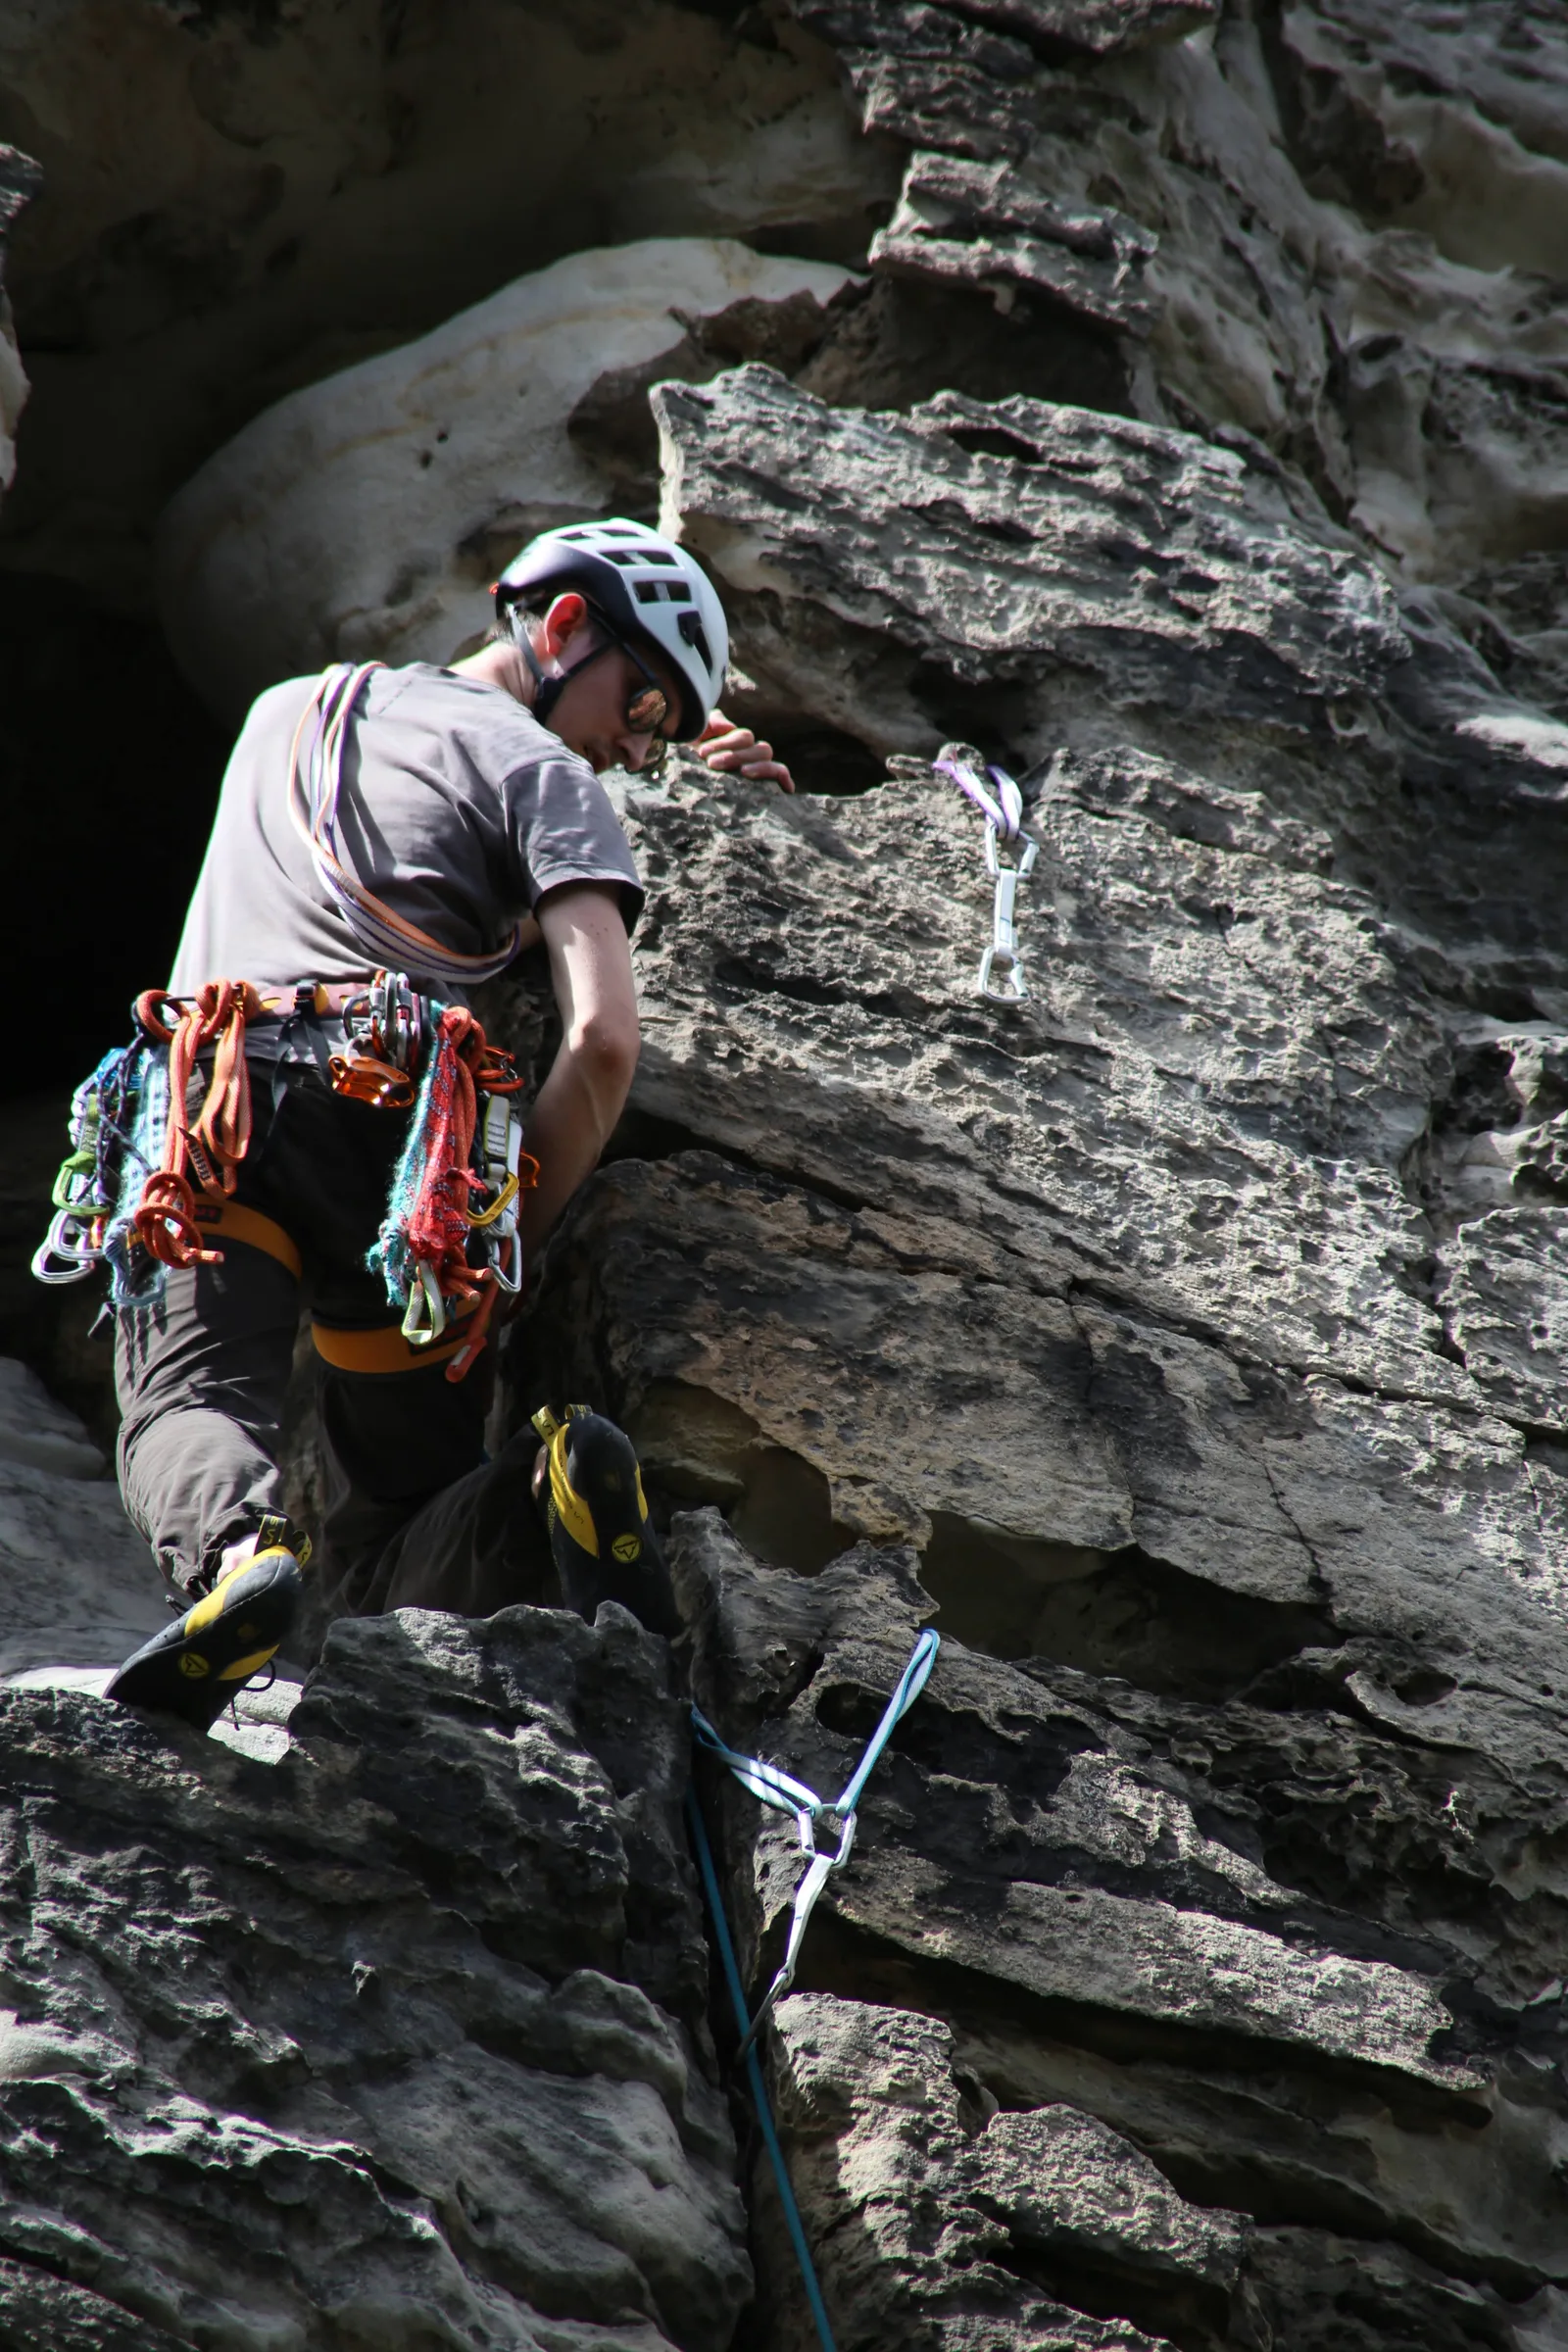
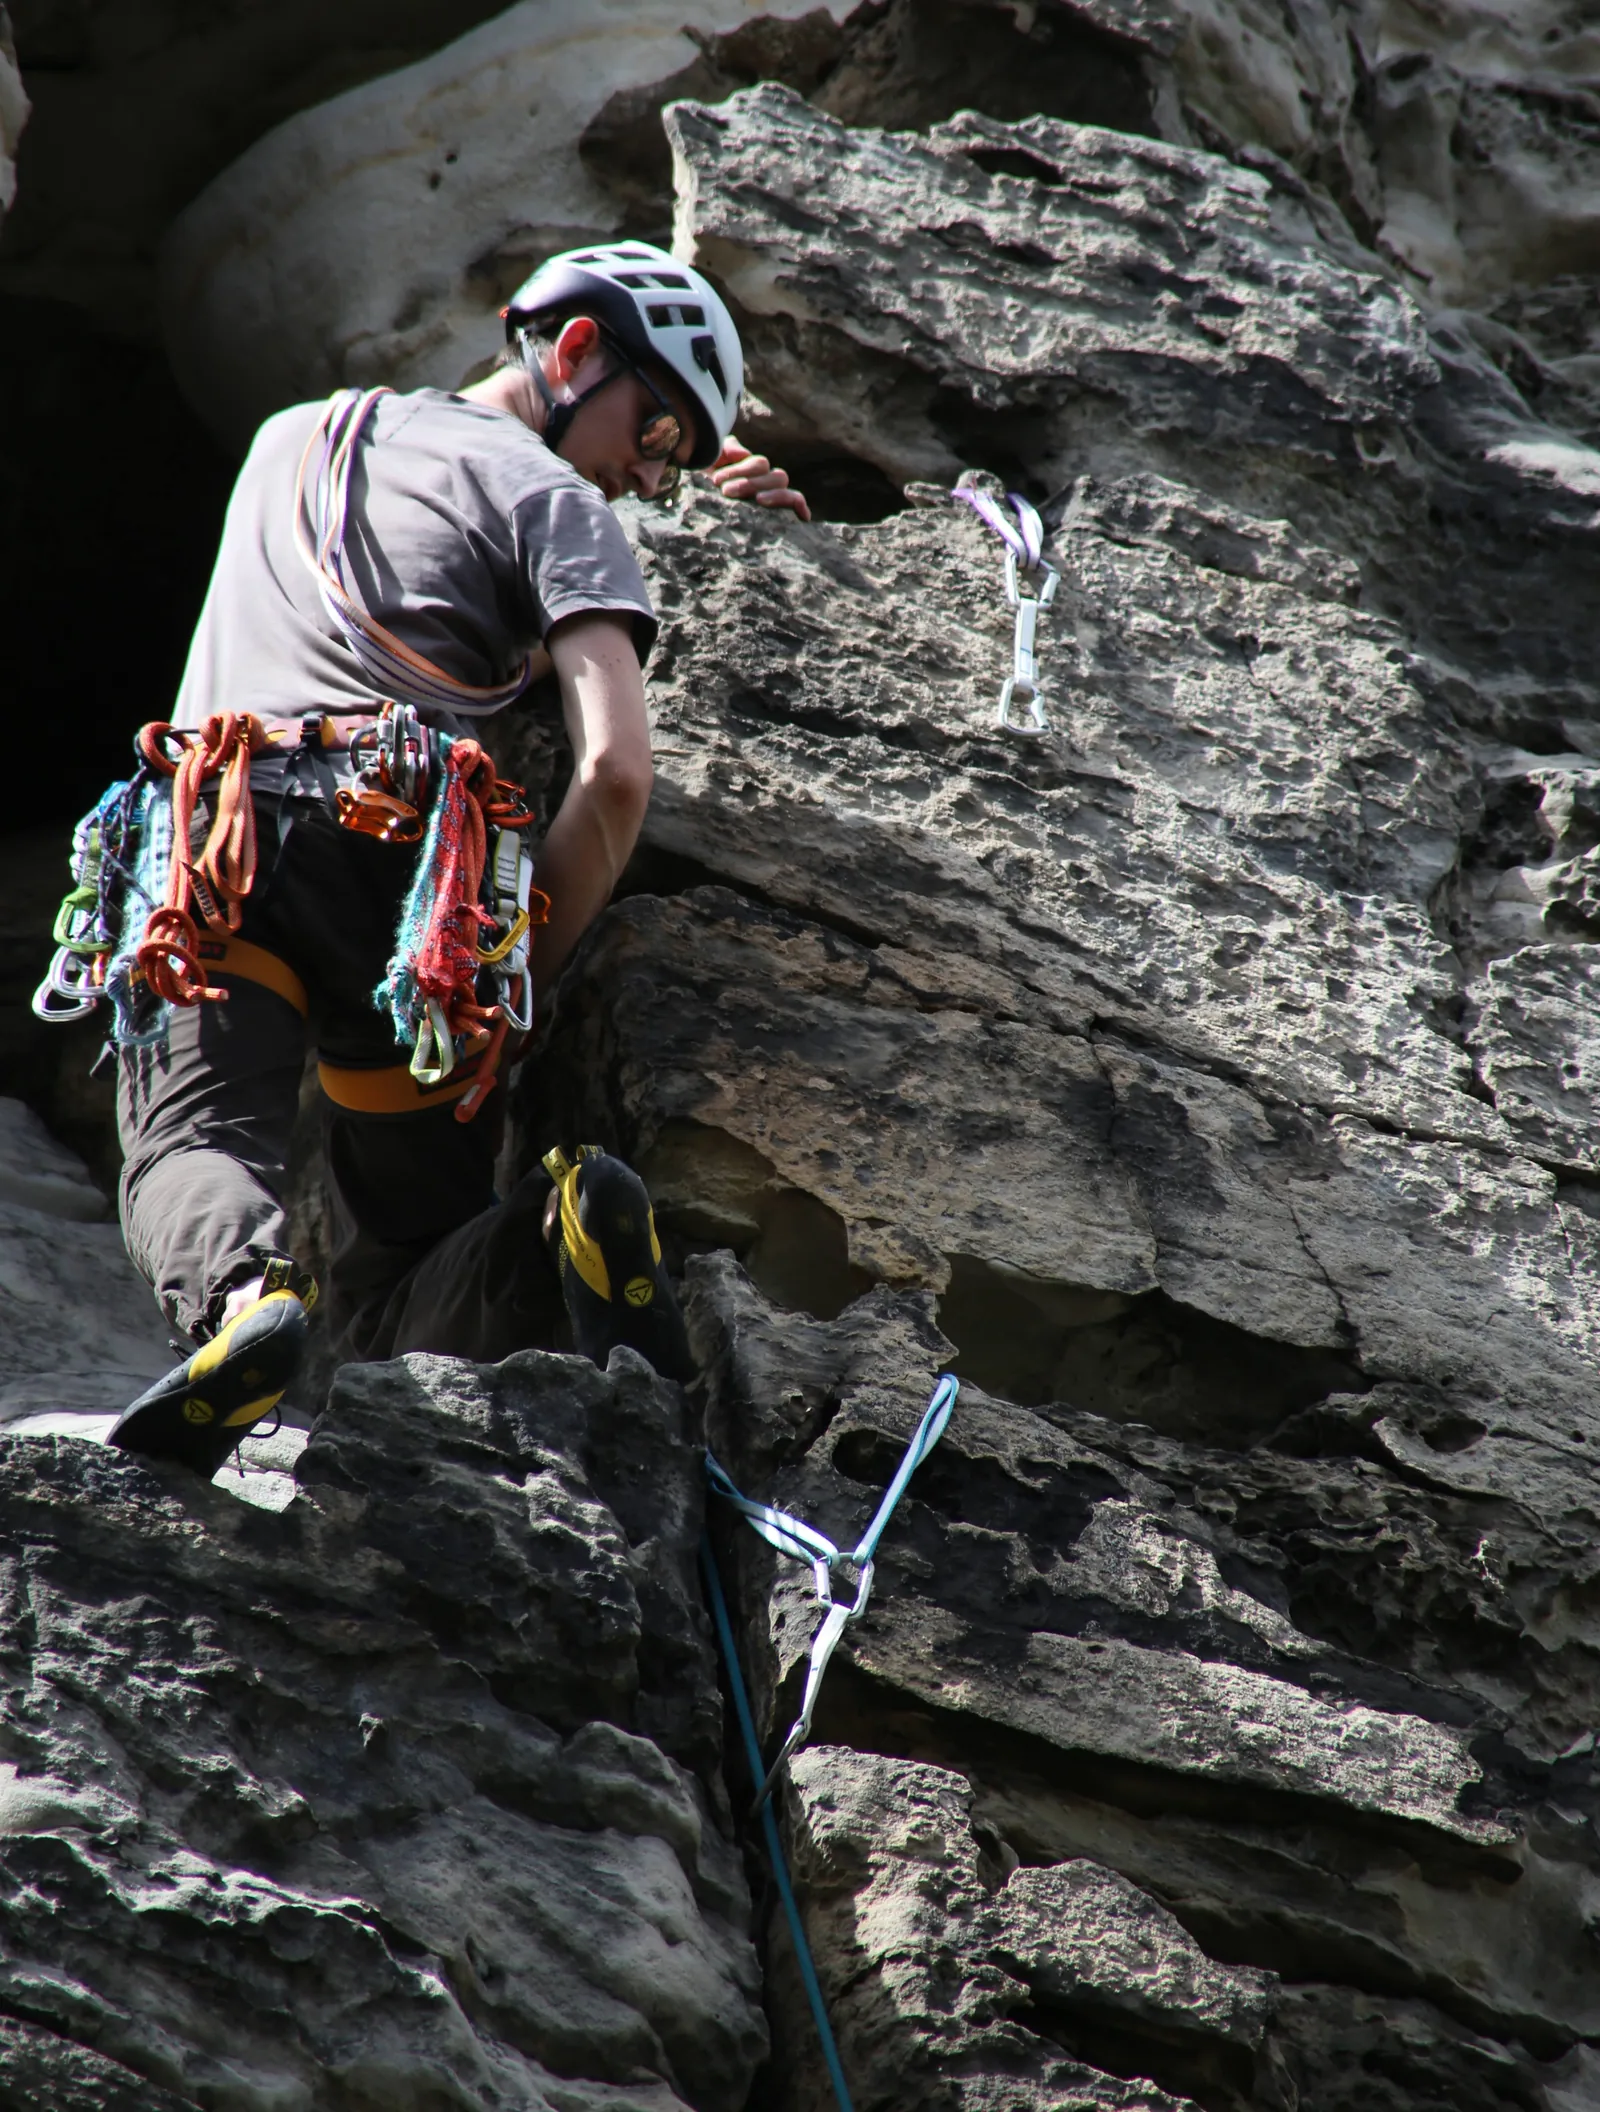
Taller mobile hero and lift climber in vertical crop
Bump mobile hero min-height from clamp(480px, 70vh, 640px) to
clamp(580px, 88vh, 780px), and recrop vertical_IMG_6198.webp (trim
~12% off the top) so the climber sits higher in frame with more rock
and rope visible below.

diff --git a/src/input.css b/src/input.css
@@ -236,7 +236,7 @@
     flex-direction: column;
   }
   @media (max-width: 639px) {
-    .hero { min-height: clamp(480px, 70vh, 640px); }
+    .hero { min-height: clamp(580px, 88vh, 780px); }
   }
   .hero__media {
     position: absolute;